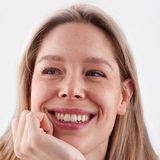
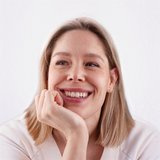
Пояснение фуркации на стекле, мельче и плотнее текст; аватар без обрезки
Claude-Session: https://claude.ai/code/session_01HD21P6VsBMCnMQUVj5ANm7

diff --git a/src/features/brush-map/three/ThreeView.tsx b/src/features/brush-map/three/ThreeView.tsx
@@ -6,6 +6,7 @@ import { Component, Fragment, Suspense, use, useEffect, useMemo, useRef, useStat
 import * as THREE from 'three';
 import type { OrbitControls as OrbitControlsImpl } from 'three-stdlib';
 import type { MapElement } from '@/domain/brushMap';
+import { glassClass } from '@/ui/Glass';
 import { SvgMarker } from '../scheme/SvgMarker';
 import type { ViewKey } from '../useMapKeyboard';
 import { createMaterials, setFade, type JawMaterials, type QualityTier } from './materials';
@@ -543,7 +544,7 @@ function Furcations({ nodes, content, view, onTooth }: { nodes: JawNodes; conten
                 Ф
               </button>
               {open === tooth && (
-                <span className={s.furcationTip} role="tooltip">
+                <span className={`${glassClass} ${s.furcationTip}`} role="tooltip">
                   <b>Фуркация, зуб {tooth}</b>
                   <span>Открытая фуркация: убыль кости в области разветвления корней многокорневого зуба. Отметка ставится и снимается в карточке зуба.</span>
                   {onTooth && (

diff --git a/src/features/brush-map/three/three.module.css b/src/features/brush-map/three/three.module.css
@@ -76,6 +76,7 @@
 }
 
 .furcationTip {
+  /* стекло — общий класс glassClass, как у остальных плашек */
   position: absolute;
   left: 50%;
   bottom: calc(100% + 8px);
@@ -84,14 +85,10 @@
   gap: 4px;
   width: 220px;
   padding: 10px 12px;
-  border-radius: 14px;
-  background: rgba(255, 255, 255, 0.95);
-  -webkit-backdrop-filter: blur(12px);
-  backdrop-filter: blur(12px);
-  box-shadow: 0 0 0 1px rgba(0, 0, 0, 0.06), 0 8px 24px rgba(0, 0, 0, 0.12);
+  border-radius: 16px;
   color: var(--color-text);
-  font-size: 13px;
-  line-height: 1.35;
+  font-size: 12px;
+  line-height: 1.25;
   text-align: left;
   transform: translateX(-50%);
 }
